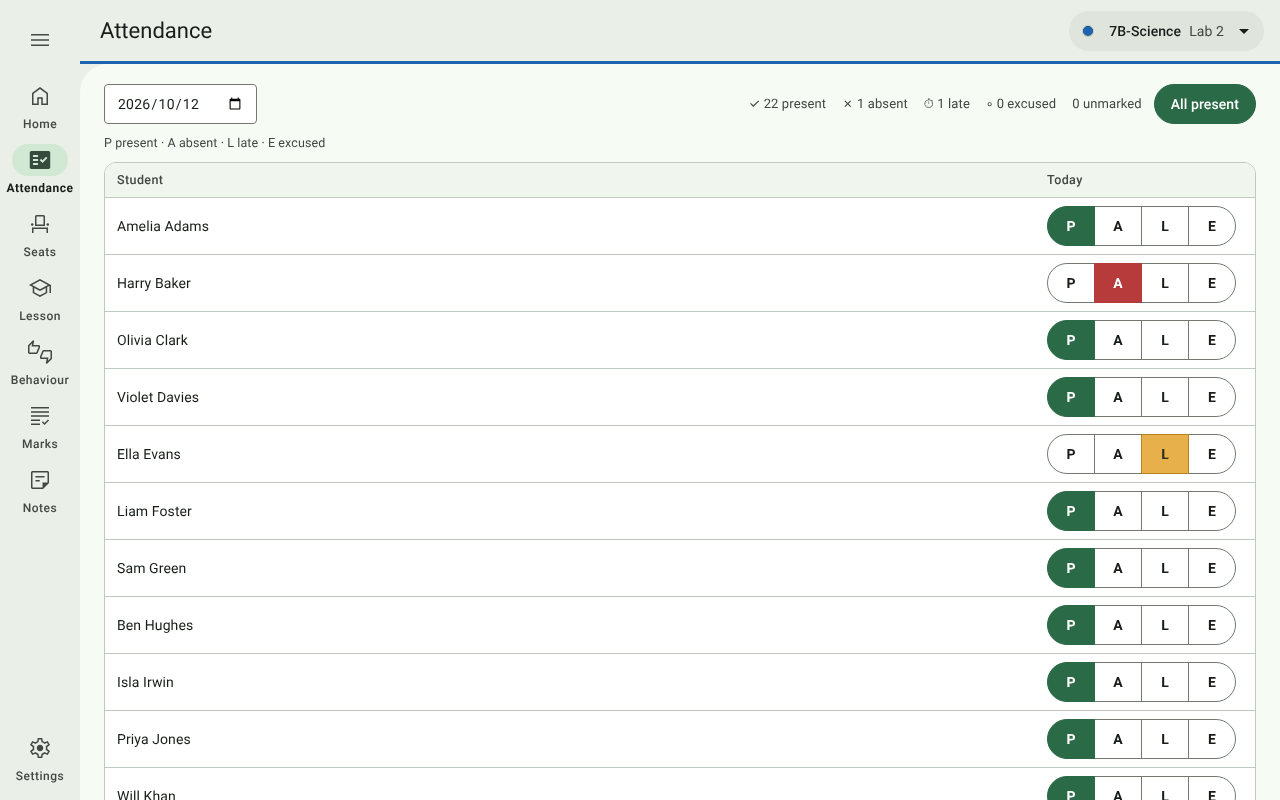
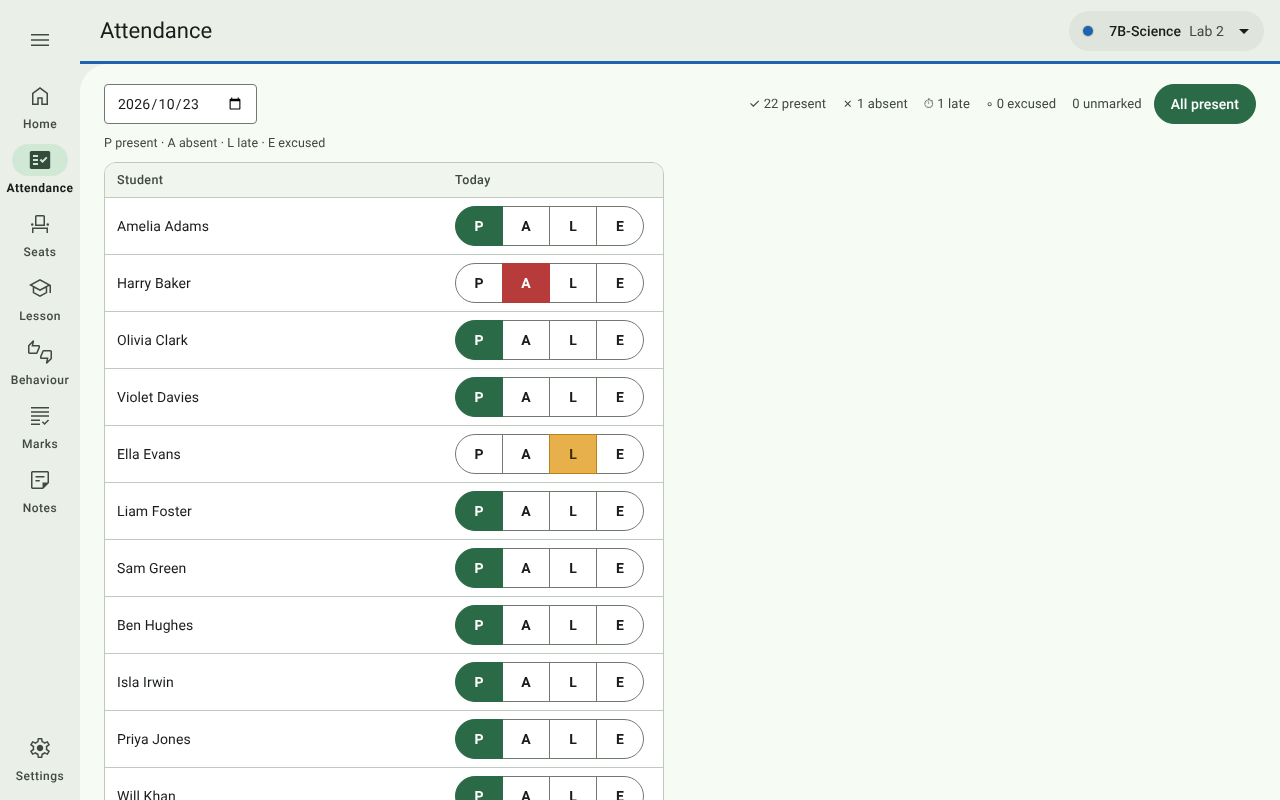
Tables sized to their content; one short-date helper
- Attendance and the behaviour log shrink to their columns, so a name and
  the P/A/L/E buttons for it sit together instead of 800 px apart.
- Marks list: dates as "21 Oct" (full date on hover), numbers and
  headings no longer break, titles get room, the Questions count is the
  button that opens them, and ✕ has a column of its own so it lines up.
  It scrolls sideways if still too wide rather than being cut off.
- The marking grids and markbook frame end where the grid ends.
- A table inside a card no longer draws a second frame.
- shortDate lives in lib/format (three copies before).

Claude-Session: https://claude.ai/code/session_01Wbpv9Apf3QQ9WSrwZMdSaB

diff --git a/src/components/AssessmentsView.tsx b/src/components/AssessmentsView.tsx
@@ -14,7 +14,7 @@ import {
   studentProvisional,
   taskShares,
 } from "../lib/stats";
-import { fmtDecimal, parseDecimal } from "../lib/format";
+import { fmtDecimal, parseDecimal, shortDate } from "../lib/format";
 import { areasForGrade, shortLabel, subtopicsForGrade, topicGrade } from "../lib/topics";
 import { positionTint, rankTints } from "../lib/listTint";
 import PrivacyGate from "./PrivacyGate";
@@ -166,79 +166,89 @@ export default function AssessmentsView() {
         </button>
       </div>
 
-      <table className="data">
-        <thead>
-          <tr>
-            <th>Title</th>
-            <th style={{ width: 100 }}>Date</th>
-            <th style={{ width: 100 }}>Content area</th>
-            <th style={{ width: 64 }}>Out of</th>
-            <th style={{ width: 80 }}>Questions</th>
-            <th style={{ width: 140 }}>Counts as</th>
-            <th style={{ width: 120 }} title="Its weight among tasks of the same kind (1 = normal, 2 = counts double, 0 = doesn't count), and the share of the final mark that gives it">
-              Weight · share
-            </th>
-            <th style={{ width: 80 }}>Marked</th>
-            <th style={{ width: 90 }}>Class mean</th>
-            <th style={{ width: 320 }}></th>
-          </tr>
-        </thead>
-        <tbody>
-          {ordered.map((a) => {
-            const stats = assessmentStats(a, marks);
-            return (
-              <tr key={a.id}>
-                <td>{a.title}</td>
-                <td>{a.date}</td>
-                <td>{a.contentArea || <span className="muted">—</span>}</td>
-                <td>{a.totalMarks}</td>
-                <td>{a.questionCount > 1 ? a.questionCount : <span className="muted">1</span>}</td>
-                <td>
-                  <select value={a.kind} onChange={(e) => update(a, { kind: e.target.value as AssessmentKind })} aria-label="Counts as">
-                    <option value="informal">Informal</option>
-                    <option value="exam">Examination</option>
-                  </select>
-                </td>
-                <td>
-                  <div className="row nowrap">
-                    <WeightInput value={a.weight} onChange={(weight) => update(a, { weight })} />
-                    <span className="muted">{fmtDecimal(shares.get(a.id) ?? 0, 1)}%</span>
-                  </div>
-                </td>
-                <td>
-                  {stats.entered}/{students.length}
-                </td>
-                <td>{stats.mean !== null ? `${Math.round(stats.mean)}%` : <span className="muted">—</span>}</td>
-                <td>
-                  <div className="row nowrap">
-                    <button className="small" onClick={() => setViewingId(a.id)} title="See the marks without changing them">
-                      <Icon name="visibility" size={18} /> View
-                    </button>
-                    <button className="small primary" onClick={() => enterMarks(a)}>
-                      <Icon name="edit" size={18} /> Enter marks
-                    </button>
-                    {a.questionCount > 1 && (
-                      <button className="small" onClick={() => setSetupId(a.id)}>
-                        Questions
+      <div className="table-scroll">
+        <table className="data marks-list">
+          <thead>
+            <tr>
+              <th>Title</th>
+              <th style={{ width: 100 }}>Date</th>
+              <th style={{ width: 100 }}>Content area</th>
+              <th style={{ width: 64 }}>Out of</th>
+              <th style={{ width: 80 }}>Questions</th>
+              <th style={{ width: 140 }}>Counts as</th>
+              <th style={{ width: 120 }} title="Its weight among tasks of the same kind (1 = normal, 2 = counts double, 0 = doesn't count), and the share of the final mark that gives it">
+                Weight · share
+              </th>
+              <th style={{ width: 80 }}>Marked</th>
+              <th style={{ width: 90 }}>Class mean</th>
+              <th></th>
+              <th style={{ width: 52 }}></th>
+            </tr>
+          </thead>
+          <tbody>
+            {ordered.map((a) => {
+              const stats = assessmentStats(a, marks);
+              return (
+                <tr key={a.id}>
+                  <td>{a.title}</td>
+                  <td className="nowrap" title={a.date}>
+                    {shortDate(a.date)}
+                  </td>
+                  <td>{a.contentArea || <span className="muted">—</span>}</td>
+                  <td className="nowrap">{a.totalMarks}</td>
+                  <td>
+                    {a.questionCount > 1 ? (
+                      <button className="small" onClick={() => setSetupId(a.id)} title="Set up the questions: topics and marks">
+                        {a.questionCount} <Icon name="edit" size={16} />
                       </button>
+                    ) : (
+                      <span className="muted">1</span>
                     )}
+                  </td>
+                  <td>
+                    <select value={a.kind} onChange={(e) => update(a, { kind: e.target.value as AssessmentKind })} aria-label="Counts as">
+                      <option value="informal">Informal</option>
+                      <option value="exam">Examination</option>
+                    </select>
+                  </td>
+                  <td>
+                    <div className="row nowrap">
+                      <WeightInput value={a.weight} onChange={(weight) => update(a, { weight })} />
+                      <span className="muted">{fmtDecimal(shares.get(a.id) ?? 0, 1)}%</span>
+                    </div>
+                  </td>
+                  <td className="nowrap">
+                    {stats.entered}/{students.length}
+                  </td>
+                  <td className="nowrap">{stats.mean !== null ? `${Math.round(stats.mean)}%` : <span className="muted">—</span>}</td>
+                  <td>
+                    <div className="row nowrap">
+                      <button className="small" onClick={() => setViewingId(a.id)} title="See the marks without changing them">
+                        <Icon name="visibility" size={18} /> View
+                      </button>
+                      <button className="small primary" onClick={() => enterMarks(a)}>
+                        <Icon name="edit" size={18} /> Enter marks
+                      </button>
+                    </div>
+                  </td>
+                  <td>
                     <button className="icon-only small danger" onClick={() => void deleteAssessment(a)} title="Delete assessment">
                       <Icon name="close" size={18} />
                     </button>
-                  </div>
+                  </td>
+                </tr>
+              );
+            })}
+            {assessments.length === 0 && (
+              <tr>
+                <td colSpan={11} className="empty-row">
+                  No assessments yet — create one, then use the quick-marking tool while you mark.
                 </td>
               </tr>
-            );
-          })}
-          {assessments.length === 0 && (
-            <tr>
-              <td colSpan={10} className="empty-row">
-                No assessments yet — create one, then use the quick-marking tool while you mark.
-              </td>
-            </tr>
-          )}
-        </tbody>
-      </table>
+            )}
+          </tbody>
+        </table>
+      </div>
 
       {showNew && (
         <NewAssessmentModal

diff --git a/src/styles.css b/src/styles.css
@@ -328,6 +328,17 @@ table.data th {
 }
 table.data tbody tr:hover td { background: rgba(43, 106, 70, 0.04); }
 table.data tr:last-child td { border-bottom: none; }
+/* Shrinks to its columns, so a name and the buttons for it stay close
+   together on a wide screen instead of 800 px apart. */
+table.data.fit { width: auto; min-width: min(100%, 560px); }
+/* A wide table scrolls sideways rather than being cut off at the frame. */
+.table-scroll { overflow-x: auto; }
+/* Inside a card, the card is the frame. */
+.panel > table.data { border: none; border-radius: 0; }
+/* The Marks list: titles get room, dates, numbers and headings never break. */
+.marks-list th, .marks-list td.nowrap { white-space: nowrap; }
+table.data.marks-list th, table.data.marks-list td { padding-left: 8px; padding-right: 8px; }
+.marks-list td:first-child { min-width: 180px; }
 /* Editable cells look editable without needing a hover (touch has none). */
 table.data td input { width: 100%; border-color: var(--md-outline-variant); background: var(--md-surface-container-lowest); padding: 5px 8px; min-height: 36px; }
 table.data td input:hover { border-color: var(--md-outline); }
@@ -666,7 +677,7 @@ table.data td input.code-input { font-weight: 700; text-transform: uppercase; }
 .weight-input, table.data td input.weight-input { width: 60px; min-height: 32px; padding: 3px 8px; text-align: right; font-variant-numeric: tabular-nums; }
 
 /* ---------- multi-question marking grid ---------- */
-.mark-grid-wrap { overflow-x: auto; border: 1px solid var(--md-outline-variant); border-radius: var(--md-shape-m); background: var(--panel); }
+.mark-grid-wrap { overflow-x: auto; border: 1px solid var(--md-outline-variant); border-radius: var(--md-shape-m); background: var(--panel); width: fit-content; max-width: 100%; }
 .mark-grid { border-collapse: separate; border-spacing: 0; font-size: 13px; }
 .mark-grid th, .mark-grid td { border-bottom: 1px solid var(--border); border-right: 1px solid var(--border); padding: 4px 6px; text-align: center; white-space: nowrap; }
 .mark-grid tbody td { padding-top: 2px; padding-bottom: 2px; }

diff --git a/src/components/dashboard/shared.tsx b/src/components/dashboard/shared.tsx
@@ -1,6 +1,7 @@
 import { Bar, BarChart, CartesianGrid, Cell, Legend, ReferenceLine, ResponsiveContainer, Tooltip, XAxis, YAxis } from "recharts";
 import { CodeCount, StudentCount, WeekPoint, fmtNum, fmtPct } from "../../lib/insights";
 import Icon, { IconName } from "../Icon";
+import { shortDate } from "../../lib/format";
 
 // Chart colours, checked with the dataviz palette validator on the light
 // surface. Green/blue is the existing pair (student vs class). Positive vs
@@ -13,11 +14,6 @@ export const C_NEGATIVE = "#c0322b";
 // on-surface-variant), so the charts sit in the same greys as the rest.
 export const C_GRID = "#e5eae2";
 export const C_INK = "#414942";
-
-const shortDate = (date: string) => {
-  const [, m, d] = date.split("-").map(Number);
-  return `${d} ${["Jan", "Feb", "Mar", "Apr", "May", "Jun", "Jul", "Aug", "Sep", "Oct", "Nov", "Dec"][m - 1]}`;
-};
 
 /** The written analysis at the top of each tab. */
 export function SummaryCard({ title, lines }: { title: string; lines: string[] }) {

diff --git a/src/components/report/ParentReport.tsx b/src/components/report/ParentReport.tsx
@@ -3,6 +3,7 @@ import { ClassInfo, GradeScale } from "../../lib/types";
 import { ReportSection, StudentProfile, TopicScore, fmtNum, fmtPct } from "../../lib/insights";
 import { GRADE_SCALES, formatDuration, gradeForPct } from "../../lib/stats";
 import { C_GRID, C_INK, C_PRIMARY, C_SECONDARY } from "../dashboard/shared";
+import { shortDate } from "../../lib/format";
 
 const MONTHS = ["January", "February", "March", "April", "May", "June", "July", "August", "September", "October", "November", "December"];
 
@@ -12,11 +13,6 @@ export function longDate(date: string): string {
   return y && m && d ? `${d} ${MONTHS[m - 1]} ${y}` : date;
 }
 
-/** "2026-10-07" → "7 Oct". */
-const shortDate = (date: string) => {
-  const [, m, d] = date.split("-").map(Number);
-  return m && d ? `${d} ${MONTHS[m - 1].slice(0, 3)}` : date;
-};
 
 /**
  * One student's parent-evening report, laid out for a single A4 page. It only

diff --git a/src/components/Markbook.tsx b/src/components/Markbook.tsx
@@ -2,18 +2,10 @@ import { useMemo } from "react";
 import { useExamWeight, useAppPick } from "../store/appStore";
 import { Assessment, studentName, sortByName } from "../lib/types";
 import { GRADE_SCALES, assessmentStats, gradeForPct, percentage, rankByScore, taskShares, weightedMark } from "../lib/stats";
-import { fmtDecimal } from "../lib/format";
+import { fmtDecimal, shortDate } from "../lib/format";
 import { positionTint, rankTints } from "../lib/listTint";
 import Icon from "./Icon";
 import StatTile from "./StatTile";
-
-const MONTHS = ["Jan", "Feb", "Mar", "Apr", "May", "Jun", "Jul", "Aug", "Sep", "Oct", "Nov", "Dec"];
-
-/** "2026-09-12" → "12 Sep". */
-function shortDate(iso: string): string {
-  const [, m, d] = iso.split("-").map(Number);
-  return m >= 1 && m <= 12 && d ? `${d} ${MONTHS[m - 1]}` : iso;
-}
 
 /**
  * Every assessment's marks for the class on one read-only page: students down

diff --git a/src/lib/format.test.ts b/src/lib/format.test.ts
@@ -1,5 +1,5 @@
 import { describe, expect, it } from "vitest";
-import { fmtDecimal, gradeLabel, joinAnd, parseDecimal } from "./format";
+import { fmtDecimal, gradeLabel, joinAnd, parseDecimal, shortDate } from "./format";
 
 describe("fmtDecimal", () => {
   it("writes a decimal comma and drops trailing zeros", () => {
@@ -51,5 +51,16 @@ describe("joinAnd", () => {
     expect(joinAnd([])).toBe("");
     expect(joinAnd(["G10"])).toBe("G10");
     expect(joinAnd(["G10", "G11", "G12"])).toBe("G10, G11 and G12");
+  });
+});
+
+describe("shortDate", () => {
+  it("gives the day and a three-letter month", () => {
+    expect(shortDate("2026-09-12")).toBe("12 Sep");
+    expect(shortDate("2026-10-07")).toBe("7 Oct");
+  });
+  it("leaves anything that isn't a date as it is", () => {
+    expect(shortDate("")).toBe("");
+    expect(shortDate("next week")).toBe("next week");
   });
 });

diff --git a/src/lib/format.ts b/src/lib/format.ts
@@ -46,3 +46,11 @@ export function gradeLabel(grade: string): string {
 export function joinAnd(items: string[]): string {
   return items.length < 2 ? (items[0] ?? "") : `${items.slice(0, -1).join(", ")} and ${items[items.length - 1]}`;
 }
+
+const MONTHS = ["Jan", "Feb", "Mar", "Apr", "May", "Jun", "Jul", "Aug", "Sep", "Oct", "Nov", "Dec"];
+
+/** "2026-09-12" → "12 Sep": a date in a table column or a chart axis. Anything else comes back as it is. */
+export function shortDate(iso: string): string {
+  const [, m, d] = iso.split("-").map(Number);
+  return m >= 1 && m <= 12 && d ? `${d} ${MONTHS[m - 1]}` : iso;
+}

diff --git a/src/components/BehaviourLogView.tsx b/src/components/BehaviourLogView.tsx
@@ -96,7 +96,7 @@ export default function BehaviourLogView() {
         </div>
       )}
 
-      <table className="data">
+      <table className="data fit">
         <thead>
           <tr>
             <th style={{ width: 170 }}>When</th>
@@ -151,7 +151,7 @@ export default function BehaviourLogView() {
       <h2 className="section-heading">
         <Icon name="wc" size={20} /> Bathroom log
       </h2>
-      <table className="data">
+      <table className="data fit">
         <thead>
           <tr>
             <th style={{ width: 110 }}>Date</th>

diff --git a/src/components/AttendanceView.tsx b/src/components/AttendanceView.tsx
@@ -67,7 +67,7 @@ export default function AttendanceView() {
       </div>
       <p className="muted att-legend">P present · A absent · L late · E excused</p>
 
-      <table className="data">
+      <table className="data fit">
         <thead>
           <tr>
             <th>Student</th>

diff --git a/docs/user-guide/07-marks.md b/docs/user-guide/07-marks.md
@@ -10,14 +10,13 @@ Open **Marks** in the navigation rail. It lists the class's assessments, newest 
 | --- | --- |
 | **Content area** | The area the test covers (e.g. *Physics*), or — for mixed. |
 | **Out of** | The total. For a test marked per question, the sum of its questions. |
-| **Questions** | 1 for a single mark; otherwise the number of questions. |
+| **Questions** | 1 for a single mark; otherwise the number of questions, as a button that opens them to edit. |
 | **Counts as** | **Informal** or **Examination** — which side of the weighted mark it counts towards (see [Weighting](#weighting)). Change it here at any time. |
 | **Weight · share** | Its weight among tasks of the same kind (1 = normal, 2 = counts double, 0 = doesn't count), and the share of the final mark that gives it. |
 | **Marked** | How many students have a mark. |
 | **Class mean** | The average percentage of the marks entered. |
 | **View** | Shows the marks read-only (see [Viewing results](#viewing-results)). |
 | **Enter marks** | Opens mark entry. |
-| **Questions** | (Per-question tests only) edit the questions. |
 | **✕** | Deletes the assessment and every mark entered for it (asks first). |
 | **Markbook** (top right) | Every assessment for the class on one page (see [The markbook](#the-markbook)). |
 
@@ -55,8 +54,8 @@ For each question, give:
   *Evaluation / Synthesis*).
 
 **Add question** adds a row; **✕** removes one. The total at the top right updates as you go. Press
-**Start marking** when done. You can come back with **Questions** on the list (or **Edit questions** while
-marking).
+**Start marking** when done. You can come back with the number in the **Questions** column of the list (or
+**Edit questions** while marking).
 
 The topic and level tags are what let the dashboards and parent reports show strengths by topic and by cognitive
 level.
